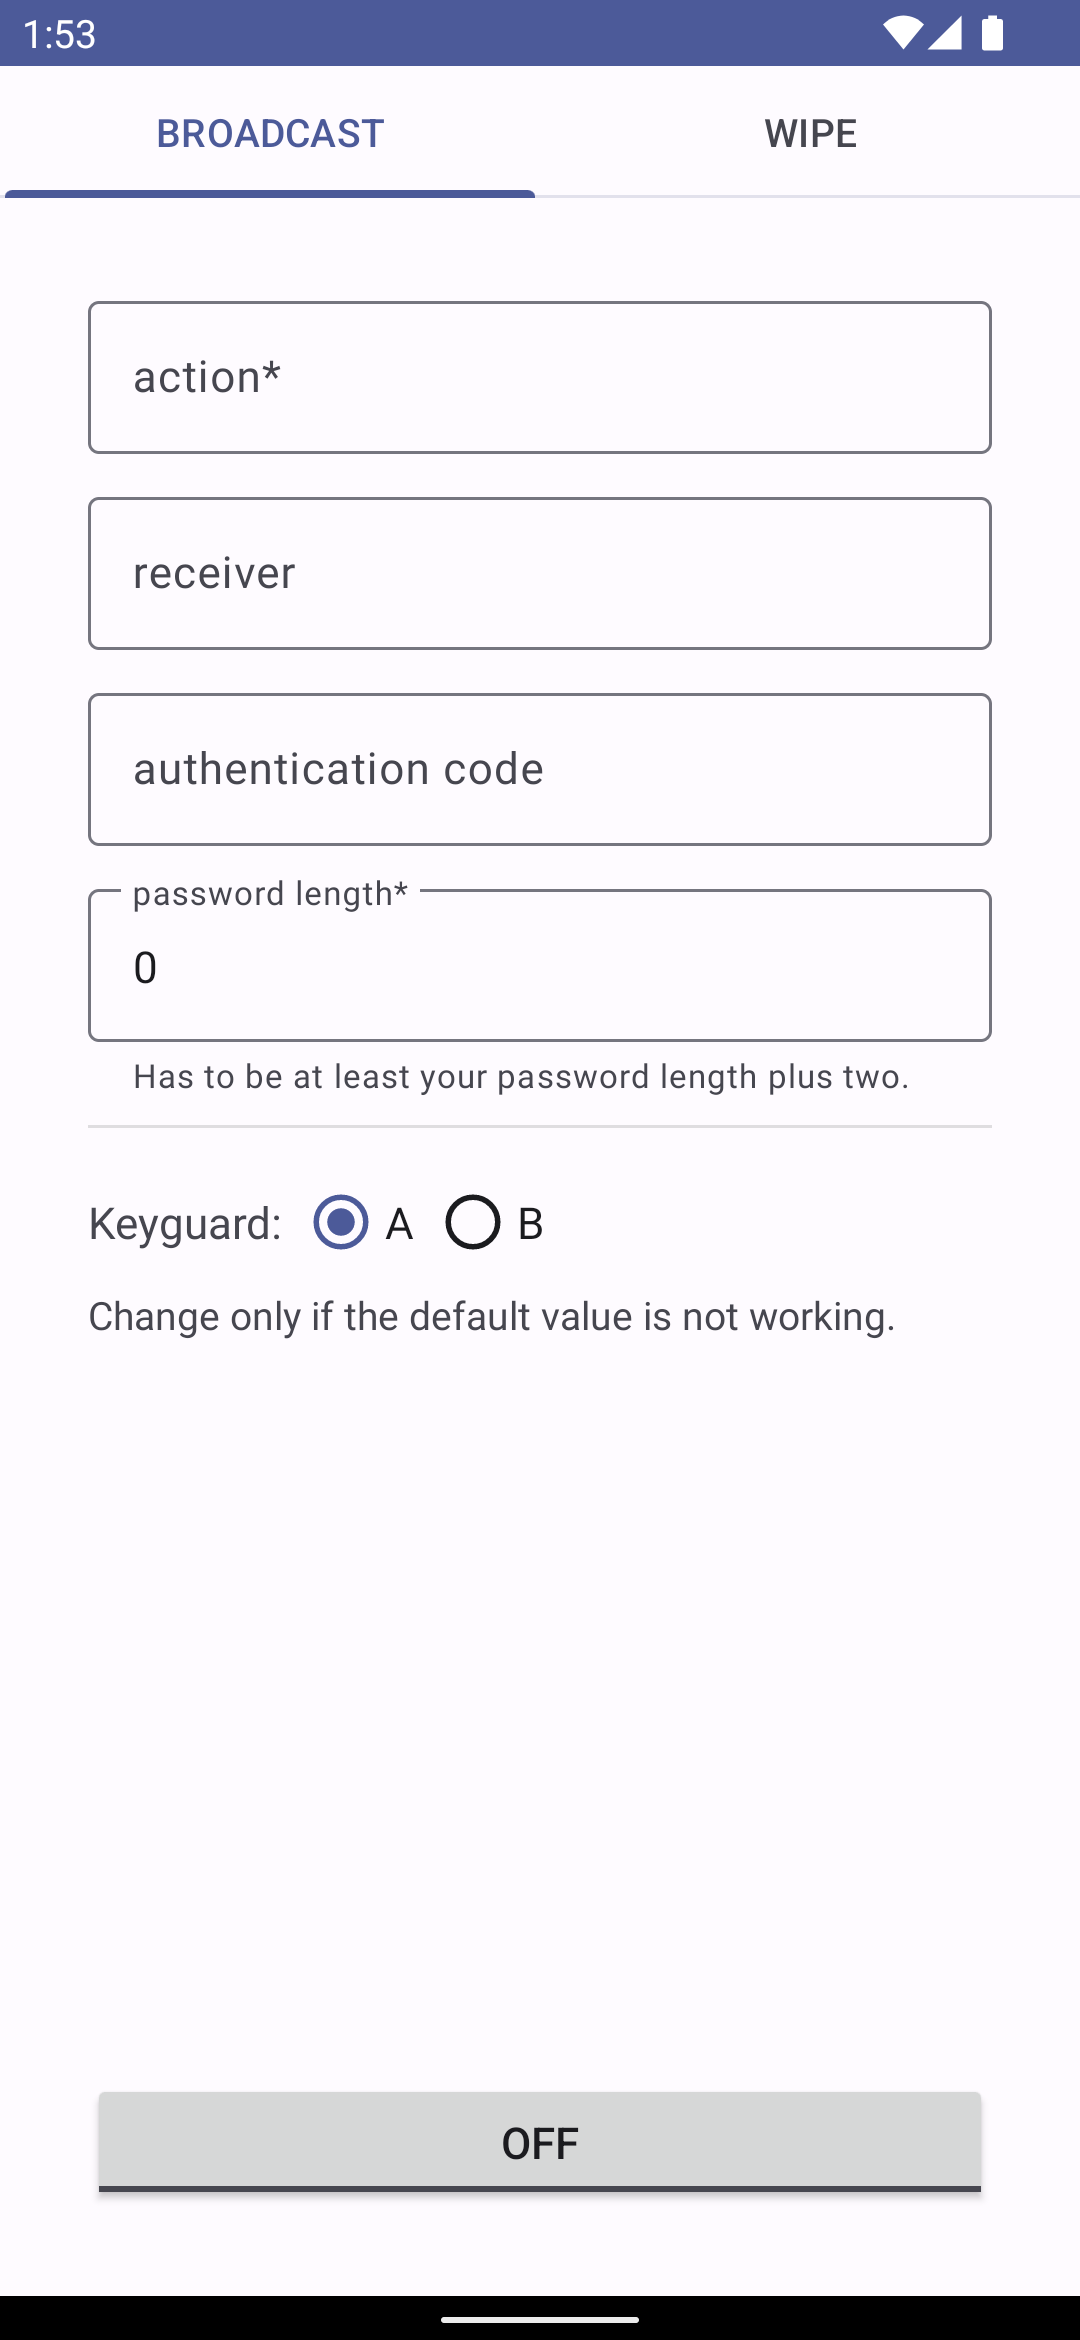
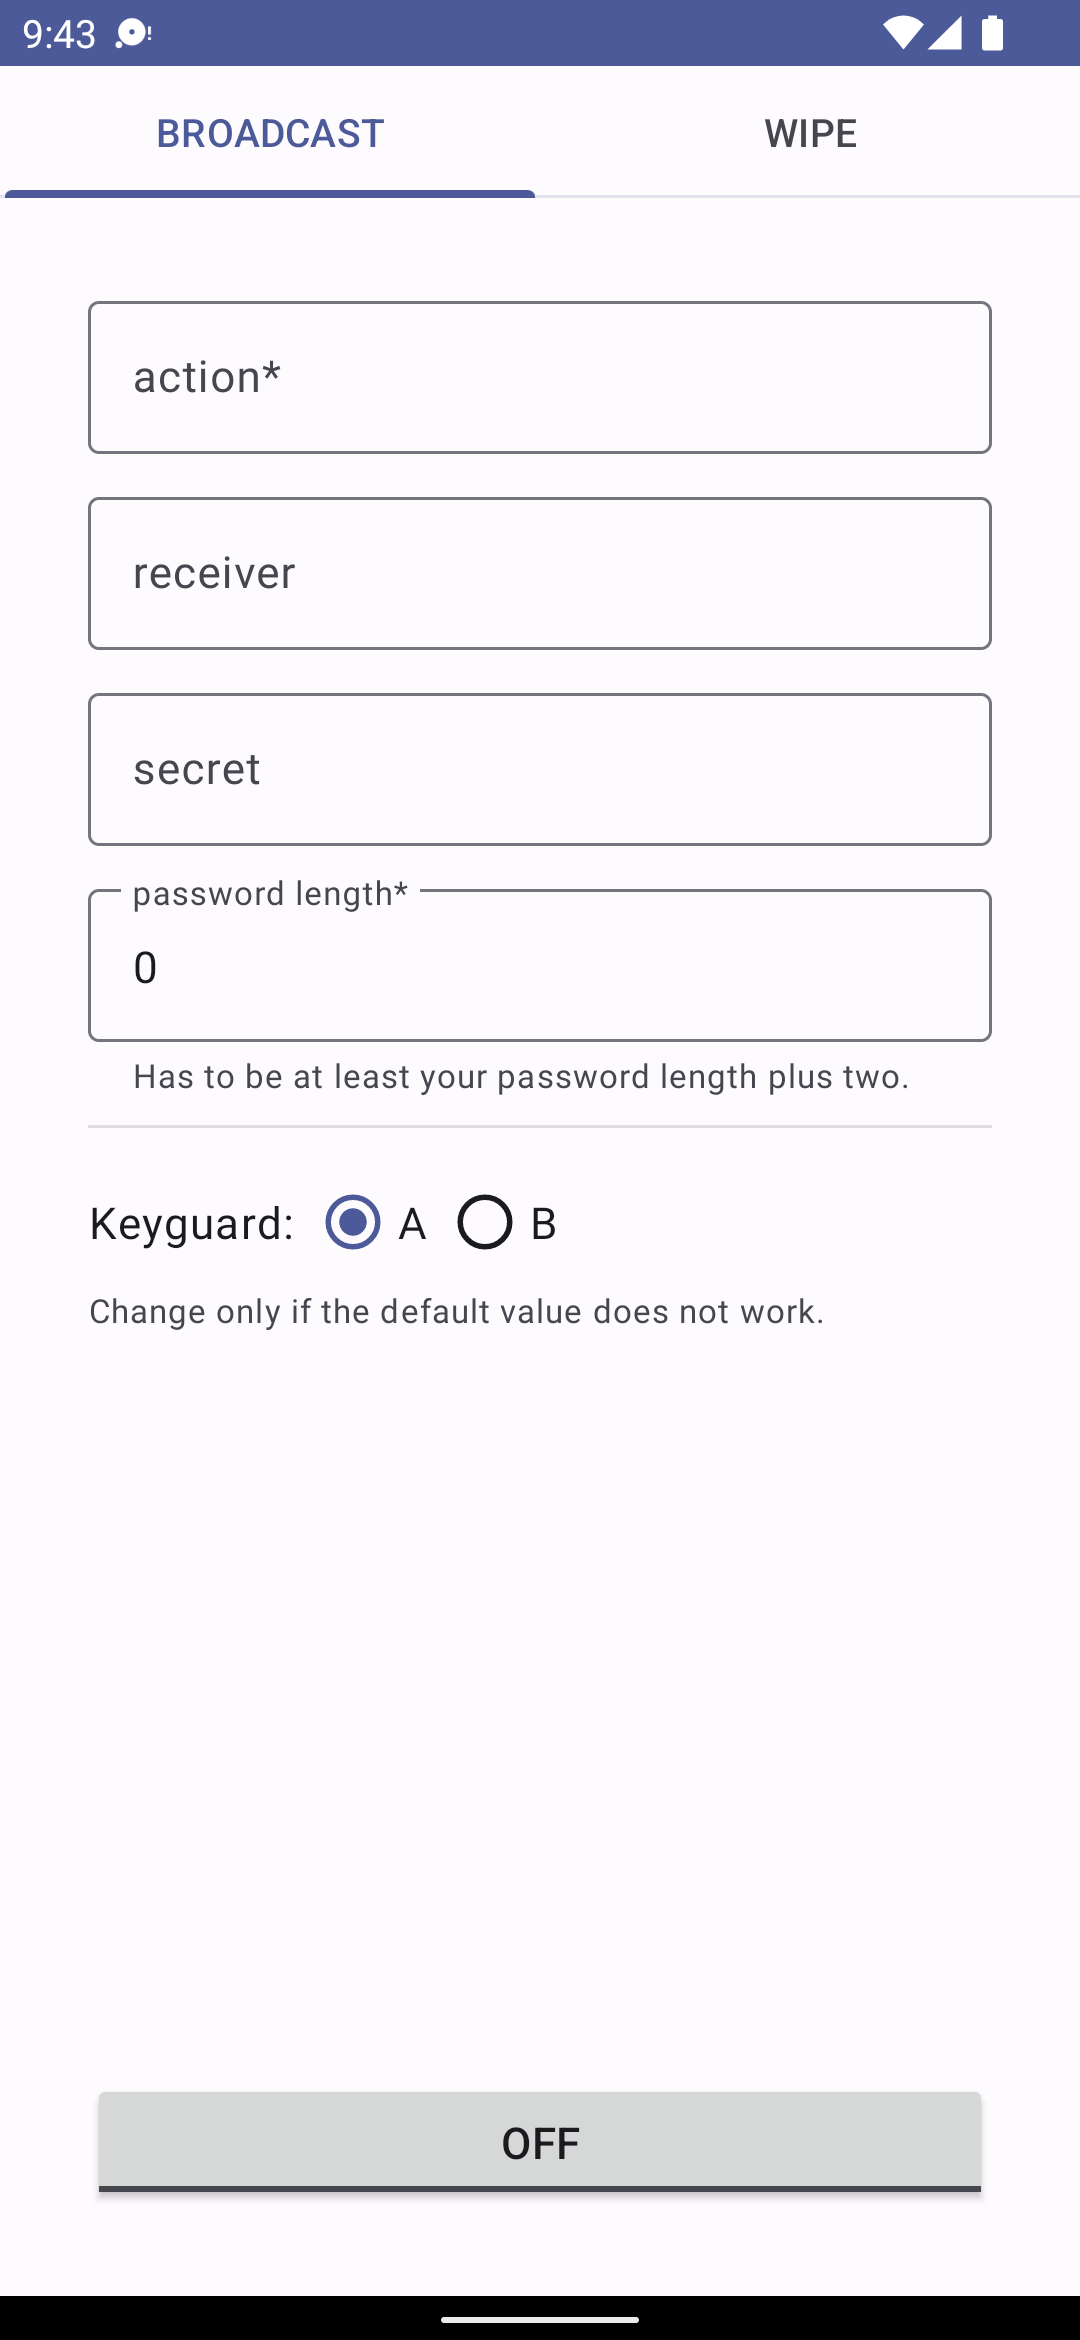
biometric

diff --git a/app/src/main/java/me/lucky/duress/MainActivity.kt b/app/src/main/java/me/lucky/duress/MainActivity.kt
@@ -8,6 +8,9 @@ import android.provider.Settings
 import android.view.View
 import android.view.accessibility.AccessibilityManager
 import androidx.appcompat.app.AppCompatActivity
+import androidx.biometric.BiometricManager
+import androidx.biometric.BiometricPrompt
+import androidx.core.content.ContextCompat
 import androidx.core.widget.doAfterTextChanged
 import com.google.android.material.dialog.MaterialAlertDialogBuilder
 import com.google.android.material.snackbar.Snackbar
@@ -31,6 +34,7 @@ class MainActivity : AppCompatActivity() {
         binding = ActivityMainBinding.inflate(layoutInflater)
         setContentView(binding.root)
         init()
+        if (initBiometric()) return
         setup()
         if (prefs.isShowProminentDisclosure) showProminentDisclosure()
     }
@@ -51,11 +55,12 @@ class MainActivity : AppCompatActivity() {
         prefsdb = Preferences(this, encrypted = false)
         prefs.copyTo(prefsdb)
         accessibilityManager = getSystemService(AccessibilityManager::class.java)
+        selectInterface()
         binding.apply {
             tabs.selectTab(tabs.getTabAt(prefs.mode))
             action.editText?.setText(prefs.action)
             receiver.editText?.setText(prefs.receiver)
-            authenticationCode.editText?.setText(prefs.authenticationCode)
+            secret.editText?.setText(prefs.secret)
             passwordLen.editText?.setText(prefs.passwordLen.toString())
             keyguardType.check(when (prefs.keyguardType) {
                 KeyguardType.A.value -> R.id.keyguardTypeA
@@ -64,59 +69,91 @@ class MainActivity : AppCompatActivity() {
             })
             toggle.isChecked = prefs.isEnabled
         }
-        selectInterface()
     }
 
-    private fun setup() {
-        binding.apply {
-            tabs.addOnTabSelectedListener(object : TabLayout.OnTabSelectedListener {
-                override fun onTabSelected(tab: TabLayout.Tab?) {
-                    if (tab == null) return
-                    setOff()
-                    for (m in Mode.values()) {
-                        if (m.value == tab.position) {
-                            prefs.mode = m.value
-                            break
-                        }
-                    }
-                    selectInterface()
+    private fun initBiometric(): Boolean {
+        val authenticators = BiometricManager.Authenticators.BIOMETRIC_STRONG or
+                BiometricManager.Authenticators.DEVICE_CREDENTIAL
+        when (BiometricManager
+            .from(this)
+            .canAuthenticate(authenticators))
+        {
+            BiometricManager.BIOMETRIC_SUCCESS -> {}
+            else -> return false
+        }
+        val executor = ContextCompat.getMainExecutor(this)
+        val prompt = BiometricPrompt(
+            this,
+            executor,
+            object : BiometricPrompt.AuthenticationCallback()
+            {
+                override fun onAuthenticationError(errorCode: Int, errString: CharSequence) {
+                    super.onAuthenticationError(errorCode, errString)
+                    finishAndRemoveTask()
                 }
 
-                override fun onTabUnselected(tab: TabLayout.Tab?) {}
-                override fun onTabReselected(tab: TabLayout.Tab?) {}
-
+                override fun onAuthenticationSucceeded(result: BiometricPrompt.AuthenticationResult) {
+                    super.onAuthenticationSucceeded(result)
+                    setup()
+                    if (prefs.isShowProminentDisclosure) showProminentDisclosure()
+                }
             })
-            action.editText?.doAfterTextChanged {
-                prefs.action = it?.toString() ?: ""
-            }
-            receiver.editText?.doAfterTextChanged {
-                prefs.receiver = it?.toString() ?: ""
-            }
-            authenticationCode.editText?.doAfterTextChanged {
-                prefs.authenticationCode = it?.toString() ?: ""
-            }
-            passwordLen.editText?.doAfterTextChanged {
-                try {
-                    prefs.passwordLen = it?.toString()?.toInt() ?: return@doAfterTextChanged
-                } catch (exc: NumberFormatException) {}
-            }
-            keyguardType.setOnCheckedChangeListener { _, checkedId ->
-                prefs.keyguardType = when (checkedId) {
-                    R.id.keyguardTypeA -> KeyguardType.A.value
-                    R.id.keyguardTypeB -> KeyguardType.B.value
-                    else -> return@setOnCheckedChangeListener
+        prompt.authenticate(BiometricPrompt.PromptInfo.Builder()
+            .setTitle(getString(R.string.authentication))
+            .setConfirmationRequired(false)
+            .setAllowedAuthenticators(authenticators)
+            .build())
+        return true
+    }
+
+    private fun setup() = binding.apply {
+        tabs.addOnTabSelectedListener(object : TabLayout.OnTabSelectedListener {
+            override fun onTabSelected(tab: TabLayout.Tab?) {
+                if (tab == null) return
+                setOff()
+                for (m in Mode.values()) {
+                    if (m.value == tab.position) {
+                        prefs.mode = m.value
+                        break
+                    }
                 }
+                selectInterface()
             }
-            toggle.setOnCheckedChangeListener { _, isChecked ->
-                if (isChecked && !hasPermissions()) {
-                    toggle.isChecked = false
-                    requestPermissions()
-                    return@setOnCheckedChangeListener
-                }
-                prefs.isEnabled = isChecked
+
+            override fun onTabUnselected(tab: TabLayout.Tab?) {}
+            override fun onTabReselected(tab: TabLayout.Tab?) {}
+
+        })
+        action.editText?.doAfterTextChanged {
+            prefs.action = it?.toString()?.trim() ?: ""
+        }
+        receiver.editText?.doAfterTextChanged {
+            prefs.receiver = it?.toString()?.trim() ?: ""
+        }
+        secret.editText?.doAfterTextChanged {
+            prefs.secret = it?.toString()?.trim() ?: ""
+        }
+        passwordLen.editText?.doAfterTextChanged {
+            try { prefs.passwordLen = it?.toString()?.toInt() ?: return@doAfterTextChanged }
+            catch (exc: NumberFormatException) {}
+        }
+        keyguardType.setOnCheckedChangeListener { _, checkedId ->
+            prefs.keyguardType = when (checkedId) {
+                R.id.keyguardTypeA -> KeyguardType.A.value
+                R.id.keyguardTypeB -> KeyguardType.B.value
+                else -> return@setOnCheckedChangeListener
             }
         }
+        toggle.setOnCheckedChangeListener { _, isChecked ->
+            if (isChecked && !hasPermissions()) {
+                toggle.isChecked = false
+                requestPermissions()
+                return@setOnCheckedChangeListener
+            }
+            prefs.isEnabled = isChecked
+        }
     }
+
     private fun selectInterface() {
         val v = when (prefs.mode) {
             Mode.BROADCAST.value -> View.VISIBLE
@@ -126,7 +163,7 @@ class MainActivity : AppCompatActivity() {
         binding.apply {
             action.visibility = v
             receiver.visibility = v
-            authenticationCode.visibility = v
+            secret.visibility = v
             space1.visibility = v
             space2.visibility = v
             space3.visibility = v
@@ -135,8 +172,8 @@ class MainActivity : AppCompatActivity() {
 
     private fun setOff() {
         prefs.isEnabled = false
-        binding.toggle.isChecked = false
         try { admin.remove() } catch (exc: SecurityException) {}
+        binding.toggle.isChecked = false
     }
 
     private fun update() {
@@ -148,7 +185,7 @@ class MainActivity : AppCompatActivity() {
             ).show()
     }
 
-    private fun showProminentDisclosure() {
+    private fun showProminentDisclosure() =
         MaterialAlertDialogBuilder(this)
             .setTitle(R.string.prominent_disclosure_title)
             .setMessage(R.string.prominent_disclosure_message)
@@ -159,7 +196,6 @@ class MainActivity : AppCompatActivity() {
                 finishAndRemoveTask()
             }
             .show()
-    }
 
     private fun requestPermissions() {
         if (!hasAccessibilityPermission()) {

diff --git a/app/src/main/java/me/lucky/duress/Preferences.kt b/app/src/main/java/me/lucky/duress/Preferences.kt
@@ -15,7 +15,7 @@ class Preferences(ctx: Context, encrypted: Boolean = true) {
         private const val MODE = "mode"
         private const val ACTION = "action"
         private const val RECEIVER = "receiver"
-        private const val AUTHENTICATION_CODE = "authentication_code"
+        private const val SECRET = "secret"
         private const val PASSWORD_LEN = "password_len"
         private const val KEYGUARD_TYPE = "keyguard_type"
         private const val SHOW_PROMINENT_DISCLOSURE = "show_prominent_disclosure"
@@ -23,6 +23,7 @@ class Preferences(ctx: Context, encrypted: Boolean = true) {
         private const val FILE_NAME = "sec_shared_prefs"
         // migration
         private const val SERVICE_ENABLED = "service_enabled"
+        private const val AUTHENTICATION_CODE = "authentication_code"
 
         fun new(ctx: Context) = Preferences(
             ctx,
@@ -62,9 +63,12 @@ class Preferences(ctx: Context, encrypted: Boolean = true) {
         get() = prefs.getString(RECEIVER, "") ?: ""
         set(value) = prefs.edit { putString(RECEIVER, value) }
 
-    var authenticationCode: String
-        get() = prefs.getString(AUTHENTICATION_CODE, "") ?: ""
-        set(value) = prefs.edit { putString(AUTHENTICATION_CODE, value) }
+    var secret: String
+        get() = prefs.getString(
+            SECRET,
+            prefs.getString(AUTHENTICATION_CODE, "") ?: "",
+        ) ?: ""
+        set(value) = prefs.edit { putString(SECRET, value) }
 
     var passwordLen: Int
         get() = prefs.getInt(PASSWORD_LEN, 0)

diff --git a/app/src/main/java/me/lucky/duress/AccessibilityService.kt b/app/src/main/java/me/lucky/duress/AccessibilityService.kt
@@ -66,6 +66,15 @@ class AccessibilityService : AccessibilityService() {
 
     override fun onInterrupt() {}
 
+    override fun onServiceConnected() {
+        super.onServiceConnected()
+        if (prefs.keyguardType != KeyguardType.B.value) return
+        serviceInfo = serviceInfo.apply {
+            eventTypes = AccessibilityEvent.TYPE_VIEW_CLICKED or
+                AccessibilityEvent.TYPE_VIEW_LONG_CLICKED
+        }
+    }
+
     private fun checkKeyguardTypeA(event: AccessibilityEvent): Boolean {
         if (event.eventType != AccessibilityEvent.TYPE_VIEW_TEXT_CHANGED ||
             !event.isPassword) return false
@@ -106,8 +115,8 @@ class AccessibilityService : AccessibilityService() {
                     )
             }
             addFlags(Intent.FLAG_INCLUDE_STOPPED_PACKAGES)
-            val code = prefs.authenticationCode
-            if (code.isNotEmpty()) putExtra(KEY, code)
+            val secret = prefs.secret
+            if (secret.isNotEmpty()) putExtra(KEY, secret)
         })
     }
 

diff --git a/app/src/main/java/me/lucky/duress/DeviceAdminReceiver.kt b/app/src/main/java/me/lucky/duress/DeviceAdminReceiver.kt
@@ -1,15 +1,5 @@
 package me.lucky.duress
 
 import android.app.admin.DeviceAdminReceiver
-import android.content.Context
-import android.content.Intent
-import android.widget.Toast
 
-class DeviceAdminReceiver : DeviceAdminReceiver() {
-    override fun onDisabled(context: Context, intent: Intent) {
-        super.onDisabled(context, intent)
-        val prefs = Preferences(context)
-        if (prefs.isEnabled && prefs.mode == Mode.WIPE.value)
-            Toast.makeText(context, R.string.service_unavailable_popup, Toast.LENGTH_SHORT).show()
-    }
-}
+class DeviceAdminReceiver : DeviceAdminReceiver() {}

diff --git a/app/src/main/java/me/lucky/duress/Application.kt b/app/src/main/java/me/lucky/duress/Application.kt
@@ -3,7 +3,6 @@ package me.lucky.duress
 import android.app.Application
 import com.google.android.material.color.DynamicColors
 
-@Suppress("unused")
 class Application : Application() {
     override fun onCreate() {
         super.onCreate()

diff --git a/README.md b/README.md
@@ -35,6 +35,13 @@ Do not forget to activate `Broadcast` trigger in Wasted.
 * ACCESSIBILITY - listen for a duress password on the lockscreen
 * DEVICE_ADMIN - wipe the device (optional)
 
+## Related
+
+* [pam_panic](https://github.com/pampanic/pam_panic)
+* [pam-party](https://github.com/x13a/pam-party)
+* [lockup](https://github.com/nekohasekai/lockup)
+* [pam-duress](https://github.com/nuvious/pam-duress)
+
 ## License
 [![GNU GPLv3 Image](https://www.gnu.org/graphics/gplv3-127x51.png)](https://www.gnu.org/licenses/gpl-3.0.en.html)
 
